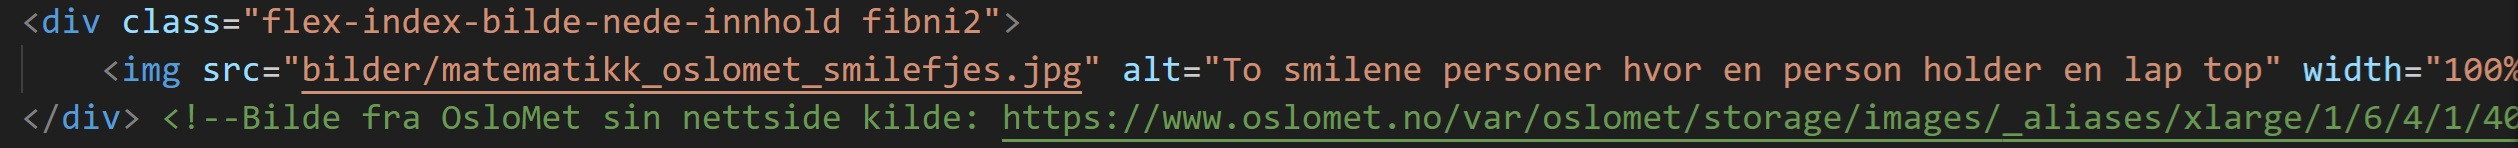
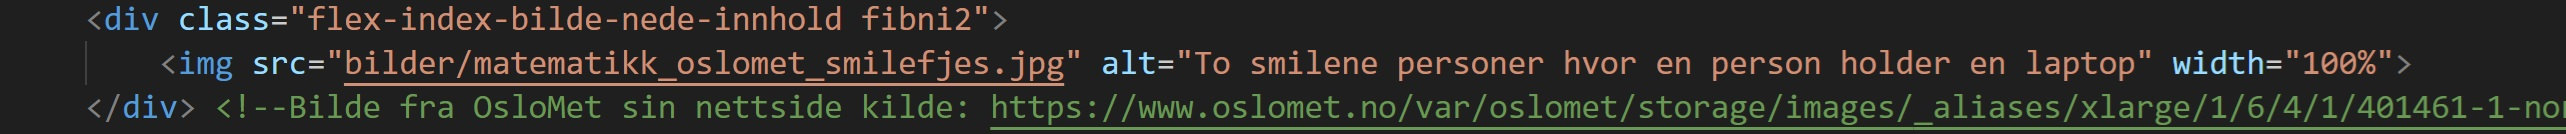
noen justering på bildene i accessibility page

Changed region(s): [[0.0, 0.6866, 1.0, 0.9851], [0.031, 0.3582, 1.0, 0.6567], [0.0, 0.0299, 0.4027, 0.2388]]

diff --git a/accessibility.html b/accessibility.html
@@ -86,7 +86,7 @@
                         <p>Samtlige sider ble testet og de mindre komplekse sidene (accessibility-page, github-page og til og med activity-page) kom godt ut av testen 
                         med en score på 100. Det var derfor ikke mye å plukke i her, selv etter en manuell vurdering som beskrevet over.</p>
 
-                        <p>Deretter testet vi på index-page. Hvor vi fikk en score på 93 etter første runde. Vi fikk et forslag på forbedringer som gjorde at vi 
+                        <p>Deretter testet vi på index-page. Etter en manuell vurdering av siden fikk vi en score på 93 med lighthouse etter første runde. Vi fikk et forslag på forbedringer som gjorde at vi 
                             la til tittel på videoen på toppen under «flex-sub-container1-hero-index» (bilde under). Dette for å hjelpe skjermlesere, til å beskrive innholdet.</p>
 
                         <img src="./bilder/eksempel_video.jpg" alt="" width="100%">  

diff --git a/index.html b/index.html
@@ -514,7 +514,7 @@
                             for å forutsi alt fra været og strømprisene til utviklingen i boligmarkedet.</p>
                     </div>
                     <div class="flex-index-bilde-nede-innhold fibni2">
-                        <img src="bilder/matematikk_oslomet_smilefjes.jpg" alt="To smilene personer hvor en person holder en lap top" width="100%">
+                        <img src="bilder/matematikk_oslomet_smilefjes.jpg" alt="To smilene personer hvor en person holder en laptop" width="100%">
                     </div> <!--Bilde fra OsloMet sin nettside kilde: https://www.oslomet.no/var/oslomet/storage/images/_aliases/xlarge/1/6/4/1/401461-1-nor-NO/613c6efdb147-matematikk_oslomet_smilefjes.jpg fotograf:OsloMet-->
                 </section>
                 </a>
